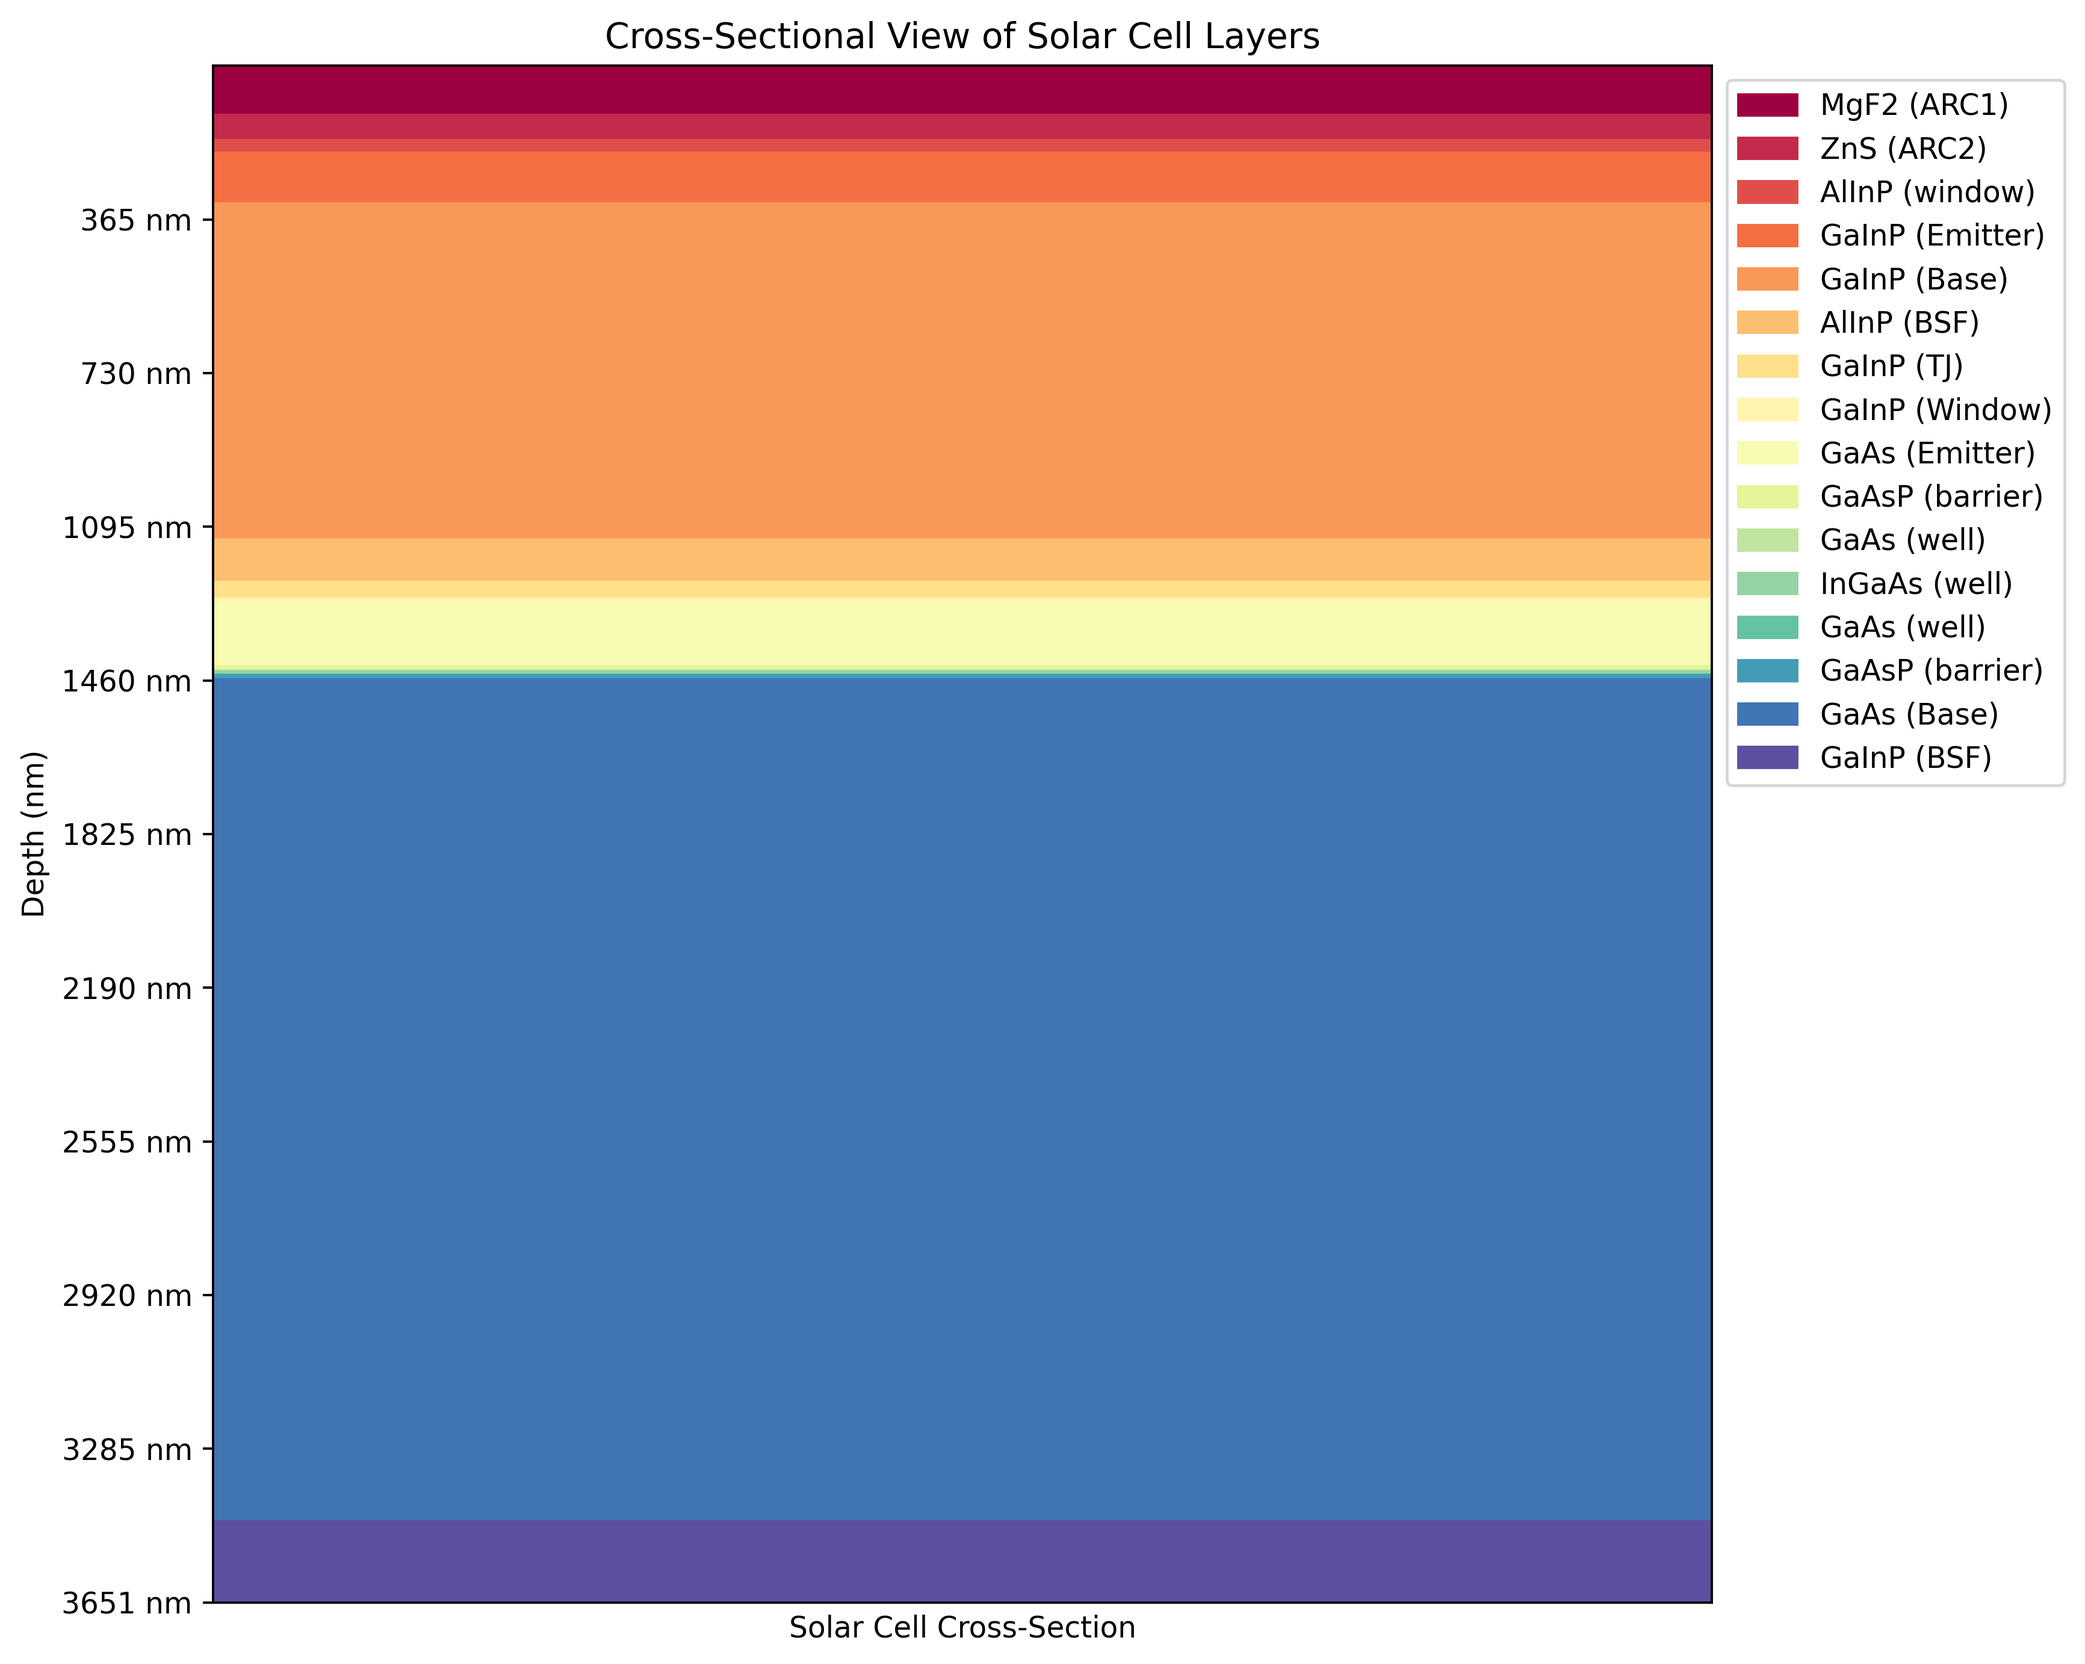
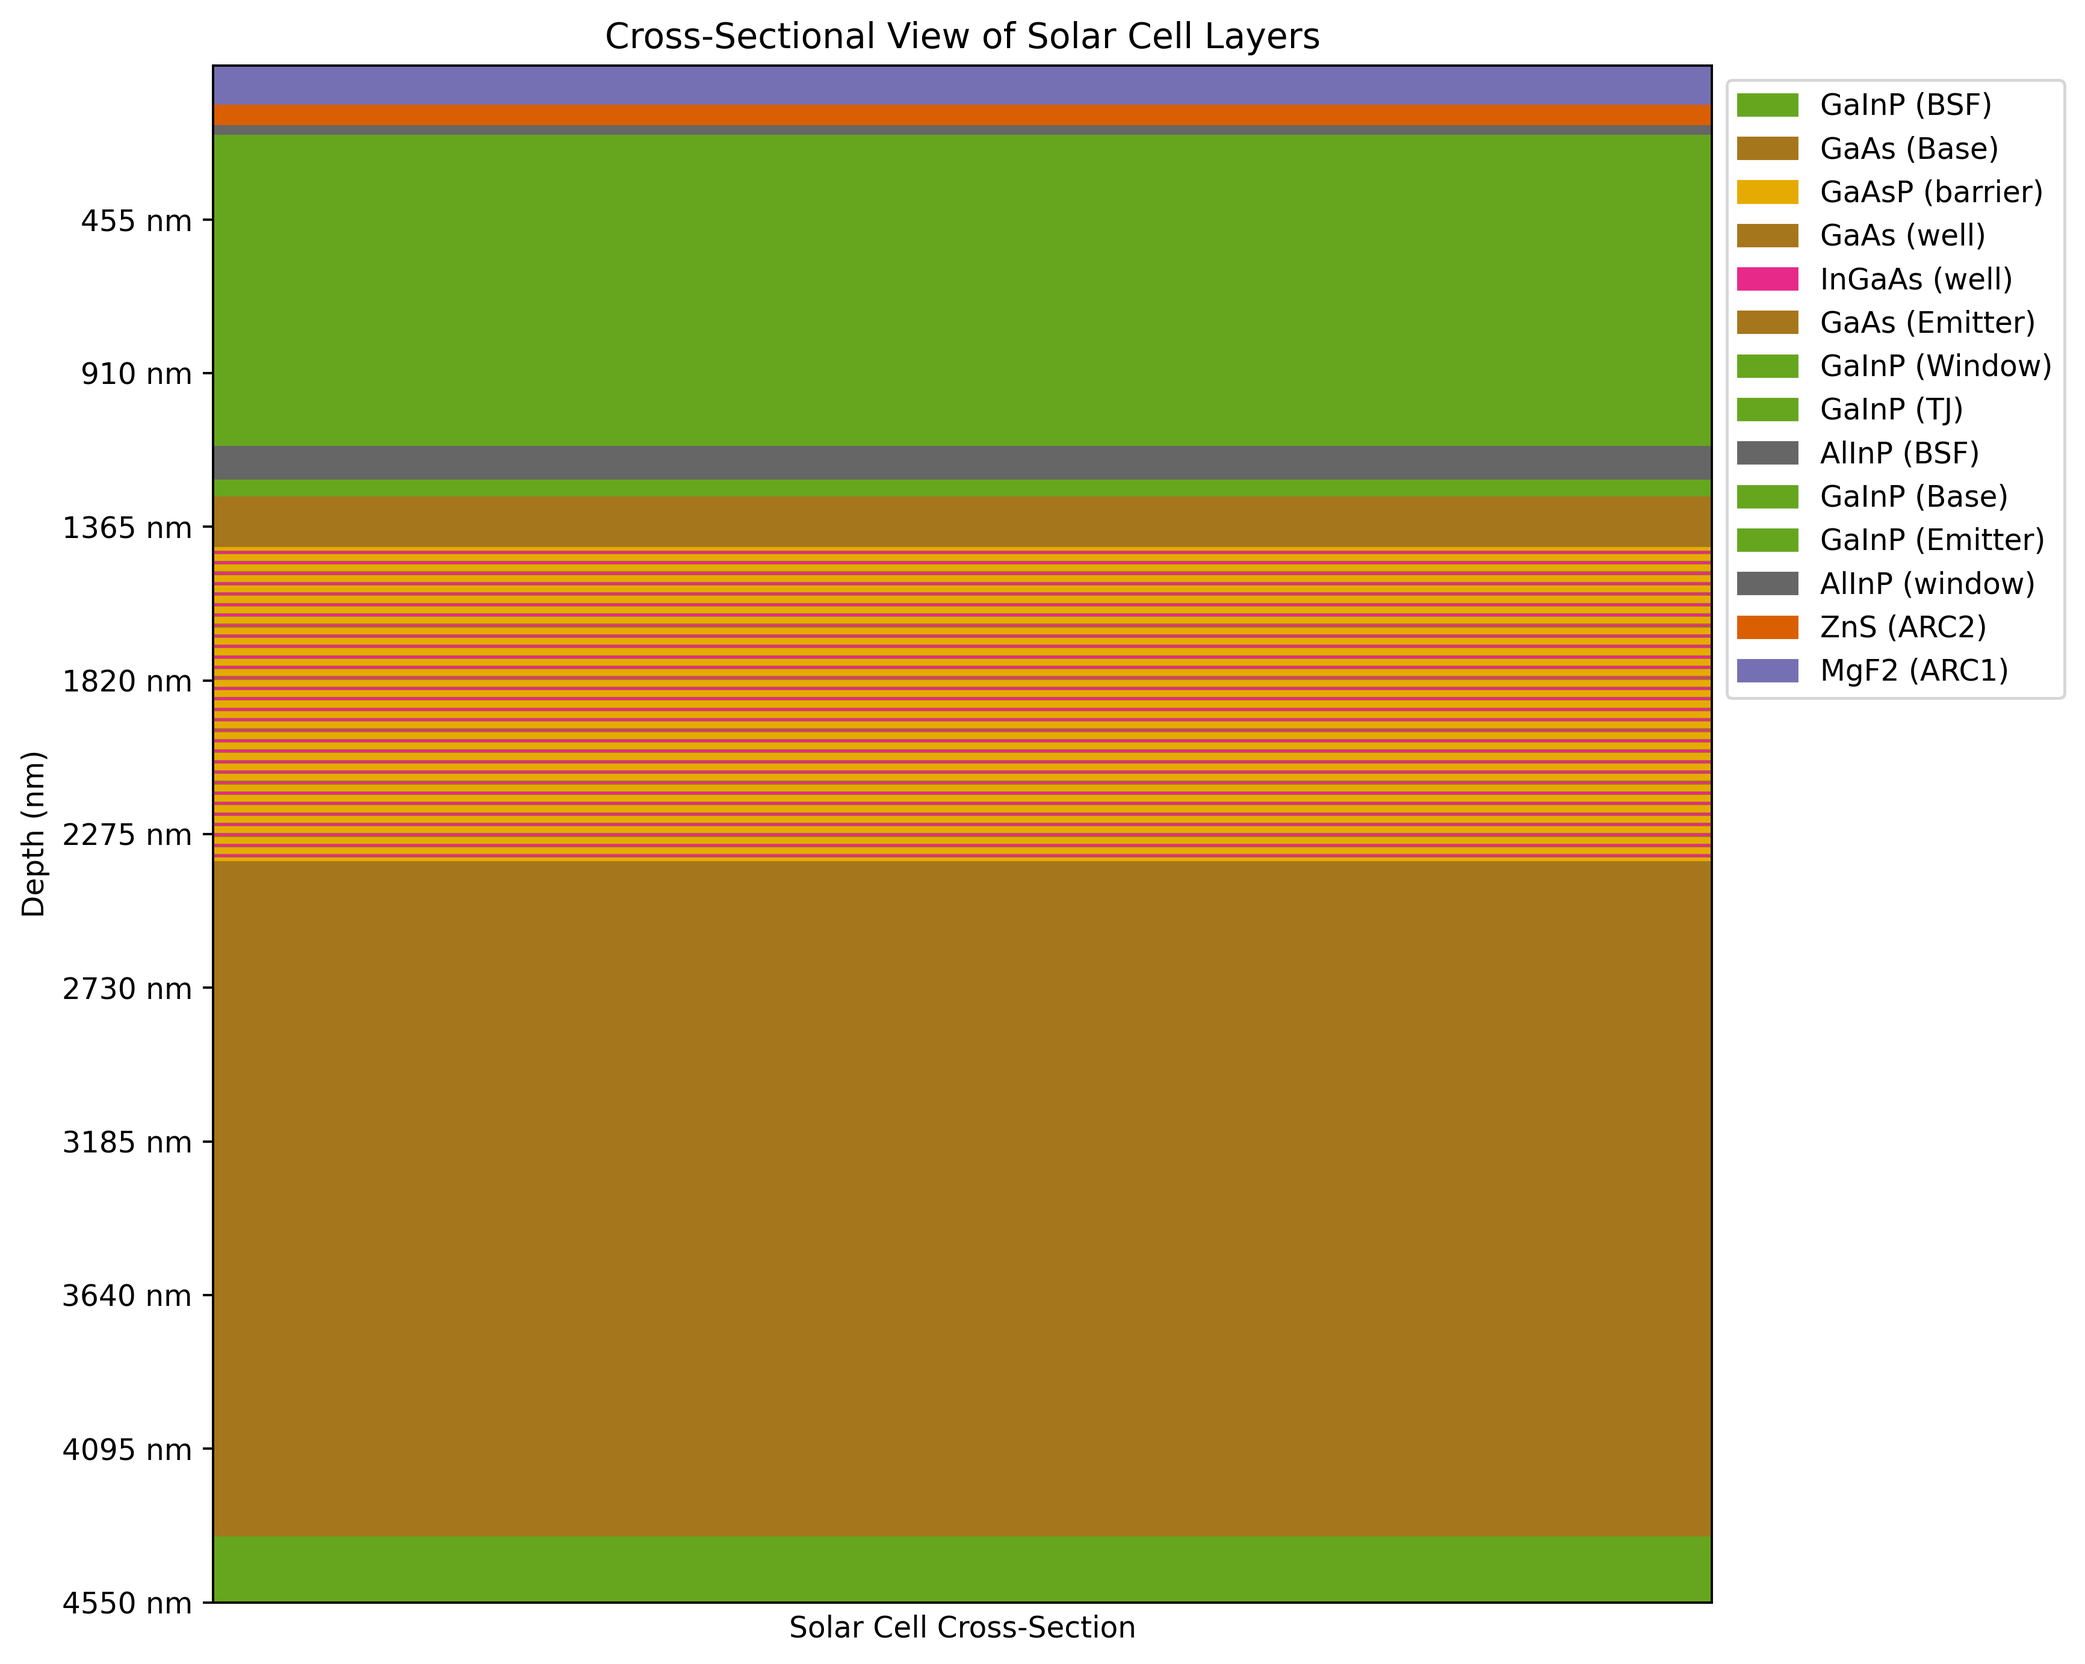
fixed bug displaying simulated am0 power in print statement, plots added for final simulation including QWs, layer cross-section plot fixed

diff --git a/code/visualize_layers.py b/code/visualize_layers.py
@@ -30,7 +30,153 @@ qws = [
     {"name": "InGaAs", "width": 7e-9, "role": "well", "In": 0.2, "strained": True},
     {"name": "GaAs", "width": 2e-9, "role": "well"},
     {"name": "GaAsP", "width": 10e-9, "role": "barrier", "P": 0.1, "strained": True},
+    {"name": "GaAsP", "width": 10e-9, "role": "barrier", "P": 0.1, "strained": True},
+    {"name": "GaAs", "width": 2e-9, "role": "well"},
+    {"name": "InGaAs", "width": 7e-9, "role": "well", "In": 0.2, "strained": True},
+    {"name": "GaAs", "width": 2e-9, "role": "well"},
+    {"name": "GaAsP", "width": 10e-9, "role": "barrier", "P": 0.1, "strained": True},
+    {"name": "GaAsP", "width": 10e-9, "role": "barrier", "P": 0.1, "strained": True},
+    {"name": "GaAs", "width": 2e-9, "role": "well"},
+    {"name": "InGaAs", "width": 7e-9, "role": "well", "In": 0.2, "strained": True},
+    {"name": "GaAs", "width": 2e-9, "role": "well"},
+    {"name": "GaAsP", "width": 10e-9, "role": "barrier", "P": 0.1, "strained": True},
+    {"name": "GaAsP", "width": 10e-9, "role": "barrier", "P": 0.1, "strained": True},
+    {"name": "GaAs", "width": 2e-9, "role": "well"},
+    {"name": "InGaAs", "width": 7e-9, "role": "well", "In": 0.2, "strained": True},
+    {"name": "GaAs", "width": 2e-9, "role": "well"},
+    {"name": "GaAsP", "width": 10e-9, "role": "barrier", "P": 0.1, "strained": True},
+    {"name": "GaAsP", "width": 10e-9, "role": "barrier", "P": 0.1, "strained": True},
+    {"name": "GaAs", "width": 2e-9, "role": "well"},
+    {"name": "InGaAs", "width": 7e-9, "role": "well", "In": 0.2, "strained": True},
+    {"name": "GaAs", "width": 2e-9, "role": "well"},
+    {"name": "GaAsP", "width": 10e-9, "role": "barrier", "P": 0.1, "strained": True},
+    {"name": "GaAsP", "width": 10e-9, "role": "barrier", "P": 0.1, "strained": True},
+    {"name": "GaAs", "width": 2e-9, "role": "well"},
+    {"name": "InGaAs", "width": 7e-9, "role": "well", "In": 0.2, "strained": True},
+    {"name": "GaAs", "width": 2e-9, "role": "well"},
+    {"name": "GaAsP", "width": 10e-9, "role": "barrier", "P": 0.1, "strained": True},
+    {"name": "GaAsP", "width": 10e-9, "role": "barrier", "P": 0.1, "strained": True},
+    {"name": "GaAs", "width": 2e-9, "role": "well"},
+    {"name": "InGaAs", "width": 7e-9, "role": "well", "In": 0.2, "strained": True},
+    {"name": "GaAs", "width": 2e-9, "role": "well"},
+    {"name": "GaAsP", "width": 10e-9, "role": "barrier", "P": 0.1, "strained": True},
+    {"name": "GaAsP", "width": 10e-9, "role": "barrier", "P": 0.1, "strained": True},
+    {"name": "GaAs", "width": 2e-9, "role": "well"},
+    {"name": "InGaAs", "width": 7e-9, "role": "well", "In": 0.2, "strained": True},
+    {"name": "GaAs", "width": 2e-9, "role": "well"},
+    {"name": "GaAsP", "width": 10e-9, "role": "barrier", "P": 0.1, "strained": True},
+    {"name": "GaAsP", "width": 10e-9, "role": "barrier", "P": 0.1, "strained": True},
+    {"name": "GaAs", "width": 2e-9, "role": "well"},
+    {"name": "InGaAs", "width": 7e-9, "role": "well", "In": 0.2, "strained": True},
+    {"name": "GaAs", "width": 2e-9, "role": "well"},
+    {"name": "GaAsP", "width": 10e-9, "role": "barrier", "P": 0.1, "strained": True},
+    {"name": "GaAsP", "width": 10e-9, "role": "barrier", "P": 0.1, "strained": True},
+    {"name": "GaAs", "width": 2e-9, "role": "well"},
+    {"name": "InGaAs", "width": 7e-9, "role": "well", "In": 0.2, "strained": True},
+    {"name": "GaAs", "width": 2e-9, "role": "well"},
+    {"name": "GaAsP", "width": 10e-9, "role": "barrier", "P": 0.1, "strained": True},
+    {"name": "GaAsP", "width": 10e-9, "role": "barrier", "P": 0.1, "strained": True},
+    {"name": "GaAs", "width": 2e-9, "role": "well"},
+    {"name": "InGaAs", "width": 7e-9, "role": "well", "In": 0.2, "strained": True},
+    {"name": "GaAs", "width": 2e-9, "role": "well"},
+    {"name": "GaAsP", "width": 10e-9, "role": "barrier", "P": 0.1, "strained": True},
+    {"name": "GaAsP", "width": 10e-9, "role": "barrier", "P": 0.1, "strained": True},
+    {"name": "GaAs", "width": 2e-9, "role": "well"},
+    {"name": "InGaAs", "width": 7e-9, "role": "well", "In": 0.2, "strained": True},
+    {"name": "GaAs", "width": 2e-9, "role": "well"},
+    {"name": "GaAsP", "width": 10e-9, "role": "barrier", "P": 0.1, "strained": True},
+    {"name": "GaAsP", "width": 10e-9, "role": "barrier", "P": 0.1, "strained": True},
+    {"name": "GaAs", "width": 2e-9, "role": "well"},
+    {"name": "InGaAs", "width": 7e-9, "role": "well", "In": 0.2, "strained": True},
+    {"name": "GaAs", "width": 2e-9, "role": "well"},
+    {"name": "GaAsP", "width": 10e-9, "role": "barrier", "P": 0.1, "strained": True},
+    {"name": "GaAsP", "width": 10e-9, "role": "barrier", "P": 0.1, "strained": True},
+    {"name": "GaAs", "width": 2e-9, "role": "well"},
+    {"name": "InGaAs", "width": 7e-9, "role": "well", "In": 0.2, "strained": True},
+    {"name": "GaAs", "width": 2e-9, "role": "well"},
+    {"name": "GaAsP", "width": 10e-9, "role": "barrier", "P": 0.1, "strained": True},
+    {"name": "GaAsP", "width": 10e-9, "role": "barrier", "P": 0.1, "strained": True},
+    {"name": "GaAs", "width": 2e-9, "role": "well"},
+    {"name": "InGaAs", "width": 7e-9, "role": "well", "In": 0.2, "strained": True},
+    {"name": "GaAs", "width": 2e-9, "role": "well"},
+    {"name": "GaAsP", "width": 10e-9, "role": "barrier", "P": 0.1, "strained": True},
+    {"name": "GaAsP", "width": 10e-9, "role": "barrier", "P": 0.1, "strained": True},
+    {"name": "GaAs", "width": 2e-9, "role": "well"},
+    {"name": "InGaAs", "width": 7e-9, "role": "well", "In": 0.2, "strained": True},
+    {"name": "GaAs", "width": 2e-9, "role": "well"},
+    {"name": "GaAsP", "width": 10e-9, "role": "barrier", "P": 0.1, "strained": True},
+    {"name": "GaAsP", "width": 10e-9, "role": "barrier", "P": 0.1, "strained": True},
+    {"name": "GaAs", "width": 2e-9, "role": "well"},
+    {"name": "InGaAs", "width": 7e-9, "role": "well", "In": 0.2, "strained": True},
+    {"name": "GaAs", "width": 2e-9, "role": "well"},
+    {"name": "GaAsP", "width": 10e-9, "role": "barrier", "P": 0.1, "strained": True},
+    {"name": "GaAsP", "width": 10e-9, "role": "barrier", "P": 0.1, "strained": True},
+    {"name": "GaAs", "width": 2e-9, "role": "well"},
+    {"name": "InGaAs", "width": 7e-9, "role": "well", "In": 0.2, "strained": True},
+    {"name": "GaAs", "width": 2e-9, "role": "well"},
+    {"name": "GaAsP", "width": 10e-9, "role": "barrier", "P": 0.1, "strained": True},
+    {"name": "GaAsP", "width": 10e-9, "role": "barrier", "P": 0.1, "strained": True},
+    {"name": "GaAs", "width": 2e-9, "role": "well"},
+    {"name": "InGaAs", "width": 7e-9, "role": "well", "In": 0.2, "strained": True},
+    {"name": "GaAs", "width": 2e-9, "role": "well"},
+    {"name": "GaAsP", "width": 10e-9, "role": "barrier", "P": 0.1, "strained": True},
+    {"name": "GaAsP", "width": 10e-9, "role": "barrier", "P": 0.1, "strained": True},
+    {"name": "GaAs", "width": 2e-9, "role": "well"},
+    {"name": "InGaAs", "width": 7e-9, "role": "well", "In": 0.2, "strained": True},
+    {"name": "GaAs", "width": 2e-9, "role": "well"},
+    {"name": "GaAsP", "width": 10e-9, "role": "barrier", "P": 0.1, "strained": True},
+    {"name": "GaAsP", "width": 10e-9, "role": "barrier", "P": 0.1, "strained": True},
+    {"name": "GaAs", "width": 2e-9, "role": "well"},
+    {"name": "InGaAs", "width": 7e-9, "role": "well", "In": 0.2, "strained": True},
+    {"name": "GaAs", "width": 2e-9, "role": "well"},
+    {"name": "GaAsP", "width": 10e-9, "role": "barrier", "P": 0.1, "strained": True},
+    {"name": "GaAsP", "width": 10e-9, "role": "barrier", "P": 0.1, "strained": True},
+    {"name": "GaAs", "width": 2e-9, "role": "well"},
+    {"name": "InGaAs", "width": 7e-9, "role": "well", "In": 0.2, "strained": True},
+    {"name": "GaAs", "width": 2e-9, "role": "well"},
+    {"name": "GaAsP", "width": 10e-9, "role": "barrier", "P": 0.1, "strained": True},
+    {"name": "GaAsP", "width": 10e-9, "role": "barrier", "P": 0.1, "strained": True},
+    {"name": "GaAs", "width": 2e-9, "role": "well"},
+    {"name": "InGaAs", "width": 7e-9, "role": "well", "In": 0.2, "strained": True},
+    {"name": "GaAs", "width": 2e-9, "role": "well"},
+    {"name": "GaAsP", "width": 10e-9, "role": "barrier", "P": 0.1, "strained": True},
+    {"name": "GaAsP", "width": 10e-9, "role": "barrier", "P": 0.1, "strained": True},
+    {"name": "GaAs", "width": 2e-9, "role": "well"},
+    {"name": "InGaAs", "width": 7e-9, "role": "well", "In": 0.2, "strained": True},
+    {"name": "GaAs", "width": 2e-9, "role": "well"},
+    {"name": "GaAsP", "width": 10e-9, "role": "barrier", "P": 0.1, "strained": True},
+    {"name": "GaAsP", "width": 10e-9, "role": "barrier", "P": 0.1, "strained": True},
+    {"name": "GaAs", "width": 2e-9, "role": "well"},
+    {"name": "InGaAs", "width": 7e-9, "role": "well", "In": 0.2, "strained": True},
+    {"name": "GaAs", "width": 2e-9, "role": "well"},
+    {"name": "GaAsP", "width": 10e-9, "role": "barrier", "P": 0.1, "strained": True},
+    {"name": "GaAsP", "width": 10e-9, "role": "barrier", "P": 0.1, "strained": True},
+    {"name": "GaAs", "width": 2e-9, "role": "well"},
+    {"name": "InGaAs", "width": 7e-9, "role": "well", "In": 0.2, "strained": True},
+    {"name": "GaAs", "width": 2e-9, "role": "well"},
+    {"name": "GaAsP", "width": 10e-9, "role": "barrier", "P": 0.1, "strained": True},
+    {"name": "GaAsP", "width": 10e-9, "role": "barrier", "P": 0.1, "strained": True},
+    {"name": "GaAs", "width": 2e-9, "role": "well"},
+    {"name": "InGaAs", "width": 7e-9, "role": "well", "In": 0.2, "strained": True},
+    {"name": "GaAs", "width": 2e-9, "role": "well"},
+    {"name": "GaAsP", "width": 10e-9, "role": "barrier", "P": 0.1, "strained": True},
+    {"name": "GaAsP", "width": 10e-9, "role": "barrier", "P": 0.1, "strained": True},
+    {"name": "GaAs", "width": 2e-9, "role": "well"},
+    {"name": "InGaAs", "width": 7e-9, "role": "well", "In": 0.2, "strained": True},
+    {"name": "GaAs", "width": 2e-9, "role": "well"},
+    {"name": "GaAsP", "width": 10e-9, "role": "barrier", "P": 0.1, "strained": True},
+    {"name": "GaAsP", "width": 10e-9, "role": "barrier", "P": 0.1, "strained": True},
+    {"name": "GaAs", "width": 2e-9, "role": "well"},
+    {"name": "InGaAs", "width": 7e-9, "role": "well", "In": 0.2, "strained": True},
+    {"name": "GaAs", "width": 2e-9, "role": "well"},
+    {"name": "GaAsP", "width": 10e-9, "role": "barrier", "P": 0.1, "strained": True},
+    {"name": "GaAsP", "width": 10e-9, "role": "barrier", "P": 0.1, "strained": True},
+    {"name": "GaAs", "width": 2e-9, "role": "well"},
+    {"name": "InGaAs", "width": 7e-9, "role": "well", "In": 0.2, "strained": True},
+    {"name": "GaAs", "width": 2e-9, "role": "well"},
+    {"name": "GaAsP", "width": 10e-9, "role": "barrier", "P": 0.1, "strained": True},
 ]
+
 gaas_junction_layers = [
     {"name": "GaInP", "width": 10e-9, "role": "Window", "Nd": 5e24, "In": 0.49},
     {"name": "GaAs", "width": 150e-9, "role": "Emitter", "Nd": 1e24},
@@ -43,29 +189,27 @@ gaas_junction_layers = [
 # Combine all layers into a single list
 all_layers = arc_and_window_layers + gainp_junction_layers + tunnel_junction_layer + gaas_junction_layers
 
-# Given layers information
-layers = all_layers
+# Use a dictionary to associate unique layer names with specific colors
+unique_layer_names = sorted(set(layer['name'] for layer in all_layers))
+color_map = {name: plt.cm.Dark2_r(i/len(unique_layer_names)) for i, name in enumerate(unique_layer_names)}
 
 fig, ax = plt.subplots(figsize=(10, 8), dpi=350)
 layer_bottom = 0  # Reset starting position
 
-# Generate colors for each layer
-num_layers = len(all_layers)
-colors = plt.cm.tab20(np.linspace(0, 1, num_layers))
-
-for i, layer in enumerate(reversed(layers)):  # Reverse the list to flip the order
+for layer in reversed(all_layers):  # Reverse the list to flip the order
     layer_top = layer_bottom + layer['width'] * 1e9  # Convert width to nm for better readability
-    ax.fill_between([0, 1], layer_bottom, layer_top, color=colors[-i-1], label=f"{layer['name']} ({layer['role']})")
+    ax.fill_between([0, 1], layer_bottom, layer_top, color=color_map[layer['name']], label=f"{layer['name']} ({layer['role']})")
     layer_bottom = layer_top  # Update for the next layer
 
-# Reverse the legend order to match the flipped layers
+# To avoid duplicate labels in the legend, we filter out duplicates
 handles, labels = ax.get_legend_handles_labels()
-ax.legend(handles[::-1], labels[::-1], loc='upper left', bbox_to_anchor=(1, 1))
+by_label = dict(zip(labels, handles))
+ax.legend(by_label.values(), by_label.keys(), loc='upper left', bbox_to_anchor=(1, 1))
 
 ax.set_xlim([0, 1])
 ax.set_ylim([0, layer_bottom])
-ax.set_yticks(np.arange(0, layer_bottom, step=layer_bottom/10))  # Add depth scale ticks
-ax.set_yticklabels([f"{int(ax.get_yticks()[-1] - tick + ax.get_yticks()[1])} nm" for tick in ax.get_yticks()])  # Label ticks with depth in nm
+ax.set_yticks(np.arange(0, layer_bottom, step=layer_bottom/10))
+ax.set_yticklabels([f"{int(ax.get_yticks()[-1] - tick + ax.get_yticks()[1])} nm" for tick in ax.get_yticks()])
 ax.set_xticks([])
 ax.set_xlabel("Solar Cell Cross-Section")
 ax.set_ylabel("Depth (nm)")

diff --git a/code/simulation.py b/code/simulation.py
@@ -287,6 +287,6 @@ plt.ylabel('W')
 plt.title('Pmpp (Maximum Power Point) per cm$^{2}$')
 plt.show()
 
-print(f'Total AM0 power/m2 simulated = {print(total_solar_power_simulated)}W')
+print(f'Total AM0 power/m2 simulated = {total_solar_power_simulated}W')
 print(f'Pmpp/cm2 = {max_pmpp_m2/10000}W')
 print(f'Total peak efficiency = {np.array(pmpp)[-1] / (con[-1] * (total_solar_power_simulated / 100))}%')
